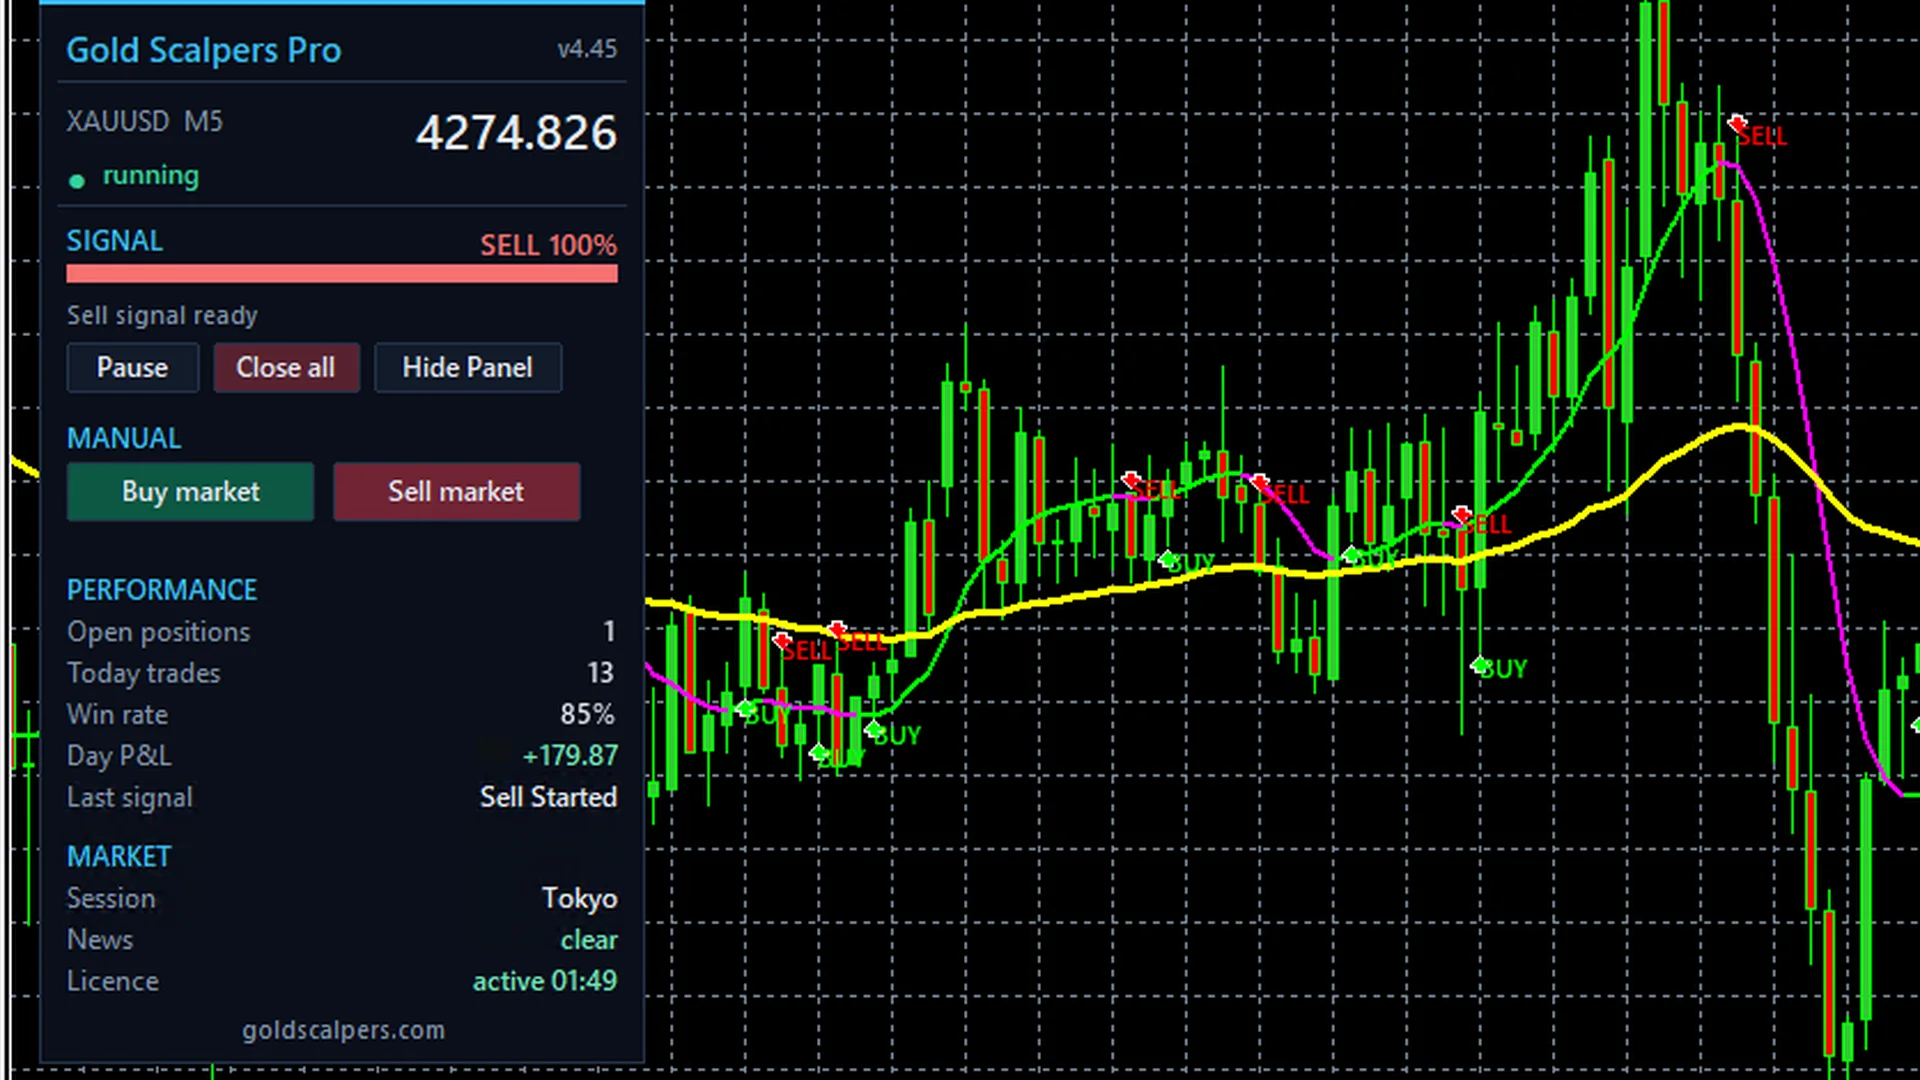
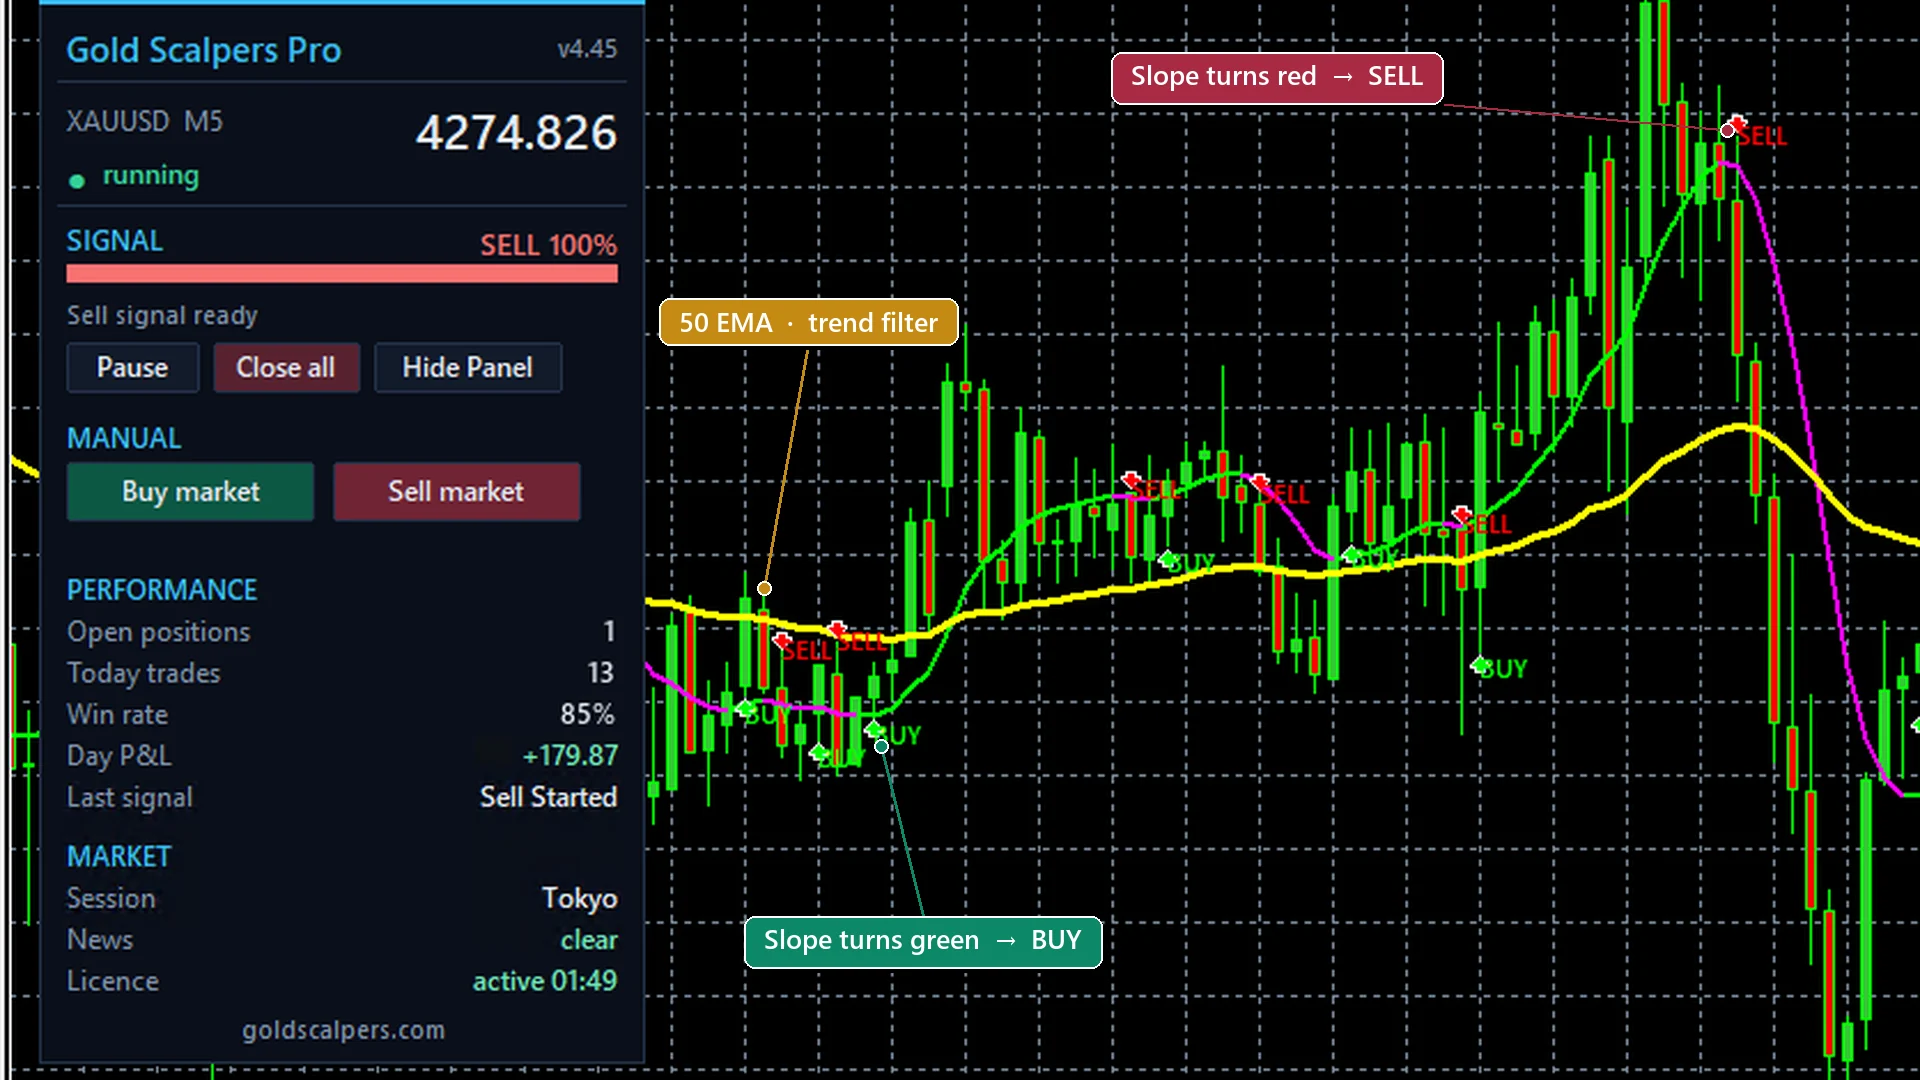
Annotated hero: label the two entry triggers and the trend filter
The hero was a clean crop but it only showed the product, it did not explain it
- a first-time visitor saw a dark chart with small coloured text on it. The hero
this replaced earlier in the week carried callouts, and that is the part that
made it read as a product shot rather than a screenshot.

Three callouts, in the three regions of the frame that are actually empty so
nothing is covered: the Slope line turning red into a SELL at the top, the
yellow 50 EMA as the trend filter, and the Slope turning green into a BUY at the
bottom. Colours are taken from the panel's own palette so they belong to the
image, each has a leader line to the feature it names, and each sits on a soft
shadow so the text survives over candles.

Drawn AFTER the upscale to 1920x1080, not before, so the badge text is crisp
rather than enlarged along with the screenshot. Positions were authored against
a measured grid of the 836x470 crop and scaled up.

Alt text now describes the annotations, since they are part of what the image
communicates.

diff --git a/index.html b/index.html
@@ -798,7 +798,7 @@ h2.section-title{font-size:2.2rem;font-weight:800;line-height:1.2;letter-spacing
         </span>
       </div>
       <div class="hero-chart-video">
-        <img src="/assets/hero-live.webp?v=5" alt="Gold Scalpers Pro dashboard on a XAUUSD M5 chart — a 100% SELL signal on the meter, one open position, 13 trades on the day at an 85% win rate and +179.87 day P&amp;L, with BUY and SELL labels on the bars that triggered" width="1920" height="1080" fetchpriority="high" decoding="async" style="position:absolute;inset:0;width:100%;height:100%;object-fit:cover;object-position:left top;display:block">
+        <img src="/assets/hero-live.webp?v=6" alt="Gold Scalpers Pro dashboard on a XAUUSD M5 chart — a 100% SELL signal on the meter, one open position, 13 trades on the day at an 85% win rate and +179.87 day P&amp;L, with the chart annotated to show where the Slope line turning green gives a BUY, turning red gives a SELL, and the yellow 50 EMA acting as the trend filter" width="1920" height="1080" fetchpriority="high" decoding="async" style="position:absolute;inset:0;width:100%;height:100%;object-fit:cover;object-position:left top;display:block">
       </div>
       <div style="padding:.55rem .85rem;background:#0F1422;border-top:1px solid #1F2937;display:flex;gap:.5rem;align-items:center;flex-wrap:wrap">
         <span style="font-size:.72rem;font-weight:700;color:#F59E0B;letter-spacing:.04em">EA DASHBOARD</span>
